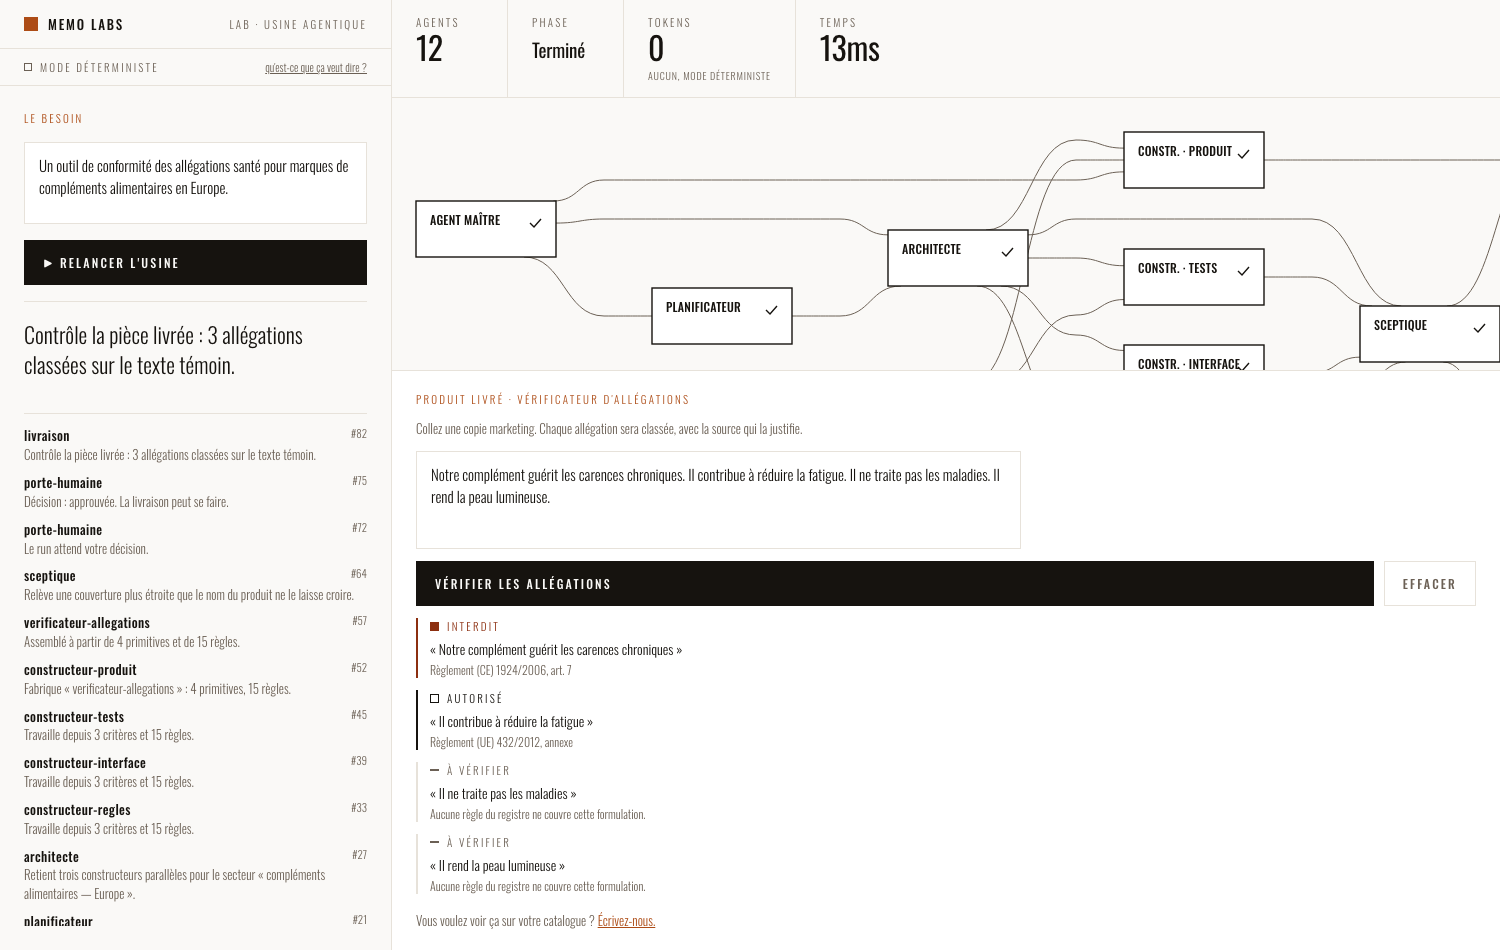
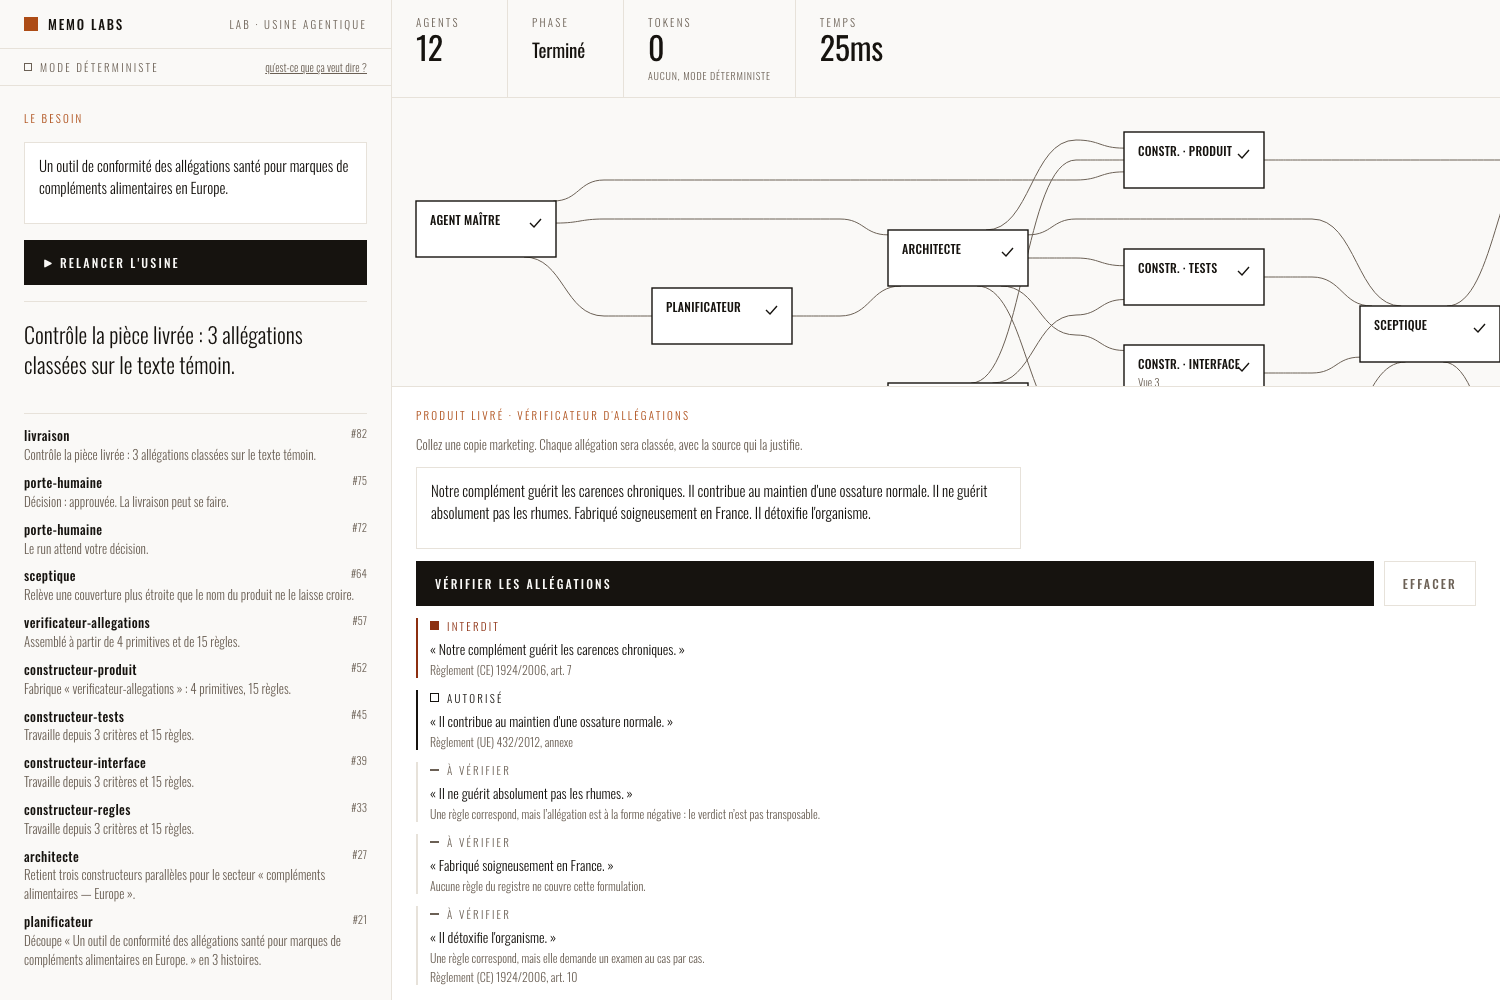
chore(apercu): capturer les cas que la relecture a fait corriger
Le texte du banc d'aperçu exerce désormais l'apostrophe droite, la négation
avec adverbe, le faux positif sur « soigneusement » et la règle qui demande
un examen au cas par cas.

diff --git a/spike/apercu/main.ts b/spike/apercu/main.ts
@@ -26,8 +26,11 @@ void (async () => {
     const champ = document.querySelector<HTMLTextAreaElement>('#copie')
     if (champ) {
       champ.value =
-        'Notre complément guérit les carences chroniques. Il contribue à réduire la fatigue. ' +
-        'Il ne traite pas les maladies. Il rend la peau lumineuse.'
+        'Notre complément guérit les carences chroniques. ' +
+        'Il contribue au maintien d\'une ossature normale. ' +
+        'Il ne guérit absolument pas les rhumes. ' +
+        'Fabriqué soigneusement en France. ' +
+        'Il détoxifie l\'organisme.'
       champ.dispatchEvent(new Event('input', { bubbles: true }))
       await attendre(60)
       const boutons = [...document.querySelectorAll<HTMLButtonElement>('.produit .bouton')]
